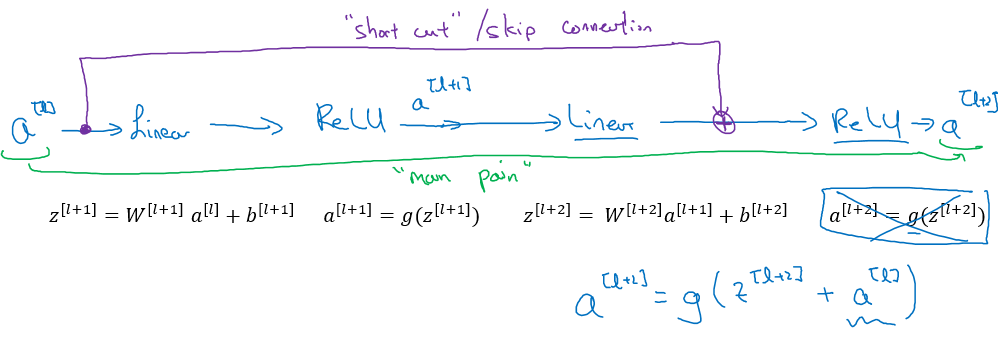
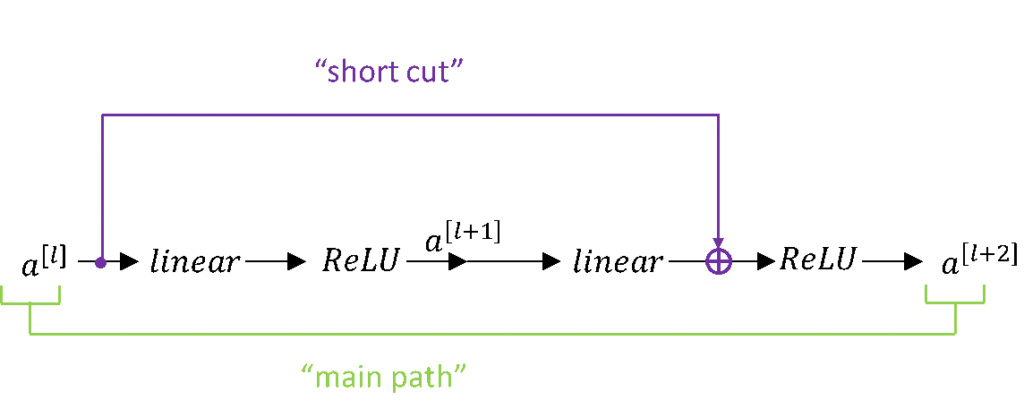
update

diff --git a/4 convolutional-neural-networks/Readme.md b/4 convolutional-neural-networks/Readme.md
@@ -371,6 +371,8 @@
 
   - [[Krizhevsky et al., 2012. ImageNet classification with deep convolutional neural networks]](https://papers.nips.cc/paper/4824-imagenet-classification-with-deep-convolutional-neural-networks.pdf)
 
+  - [[Understanding AlexNet]](https://www.learnopencv.com/understanding-alexnet/)
+
 - **VGG-16**
 
   - A modification for AlexNet.
@@ -380,6 +382,7 @@
     - MAX-POOL = 2 X 2 , s = 2
   - Here are the architecture:
     - ![](Images/07.png)
+    - ![](Images/vgg16.png)
   - This network is large even by modern standards. It has around 138 million parameters.
     - Most of the parameters are in the fully connected layers.
   - It has a total memory of 96MB per image for only forward propagation!
@@ -397,9 +400,12 @@
 - **Residual block**
   - ResNets are built out of some Residual blocks.
   - ![](Images/08.png)
+  - ![](Images/03.png)
   - They add a shortcut/skip connection before the second activation.
   - The authors of this block find that you can train a deeper NNs using stacking this block.
   - [[He et al., 2015. Deep residual networks for image recognition]](https://arxiv.org/abs/1512.03385)
+  - [[Advanced Topics in Deep Convolutional Neural Networks]](https://www.topbots.com/advanced-topics-deep-convolutional-neural-networks/)
+  - [[CNN Residual nets]](http://datahacker.rs/014-cnn-residual-nets/)
 - **Residual Network**
   - Are a NN that consists of some Residual blocks.
   - ![](Images/09.png)
@@ -408,7 +414,6 @@
   - On the left is the normal NN and on the right are the ResNet. As you can see the performance of ResNet increases as the network goes deeper.
   - In some cases going deeper won't effect the performance and that depends on the problem on your hand.
   - Some people are trying to train 1000 layer now which isn't used in practice.
-  - [He et al., 2015. Deep residual networks for image recognition]
 
 ### Why ResNets work
 
